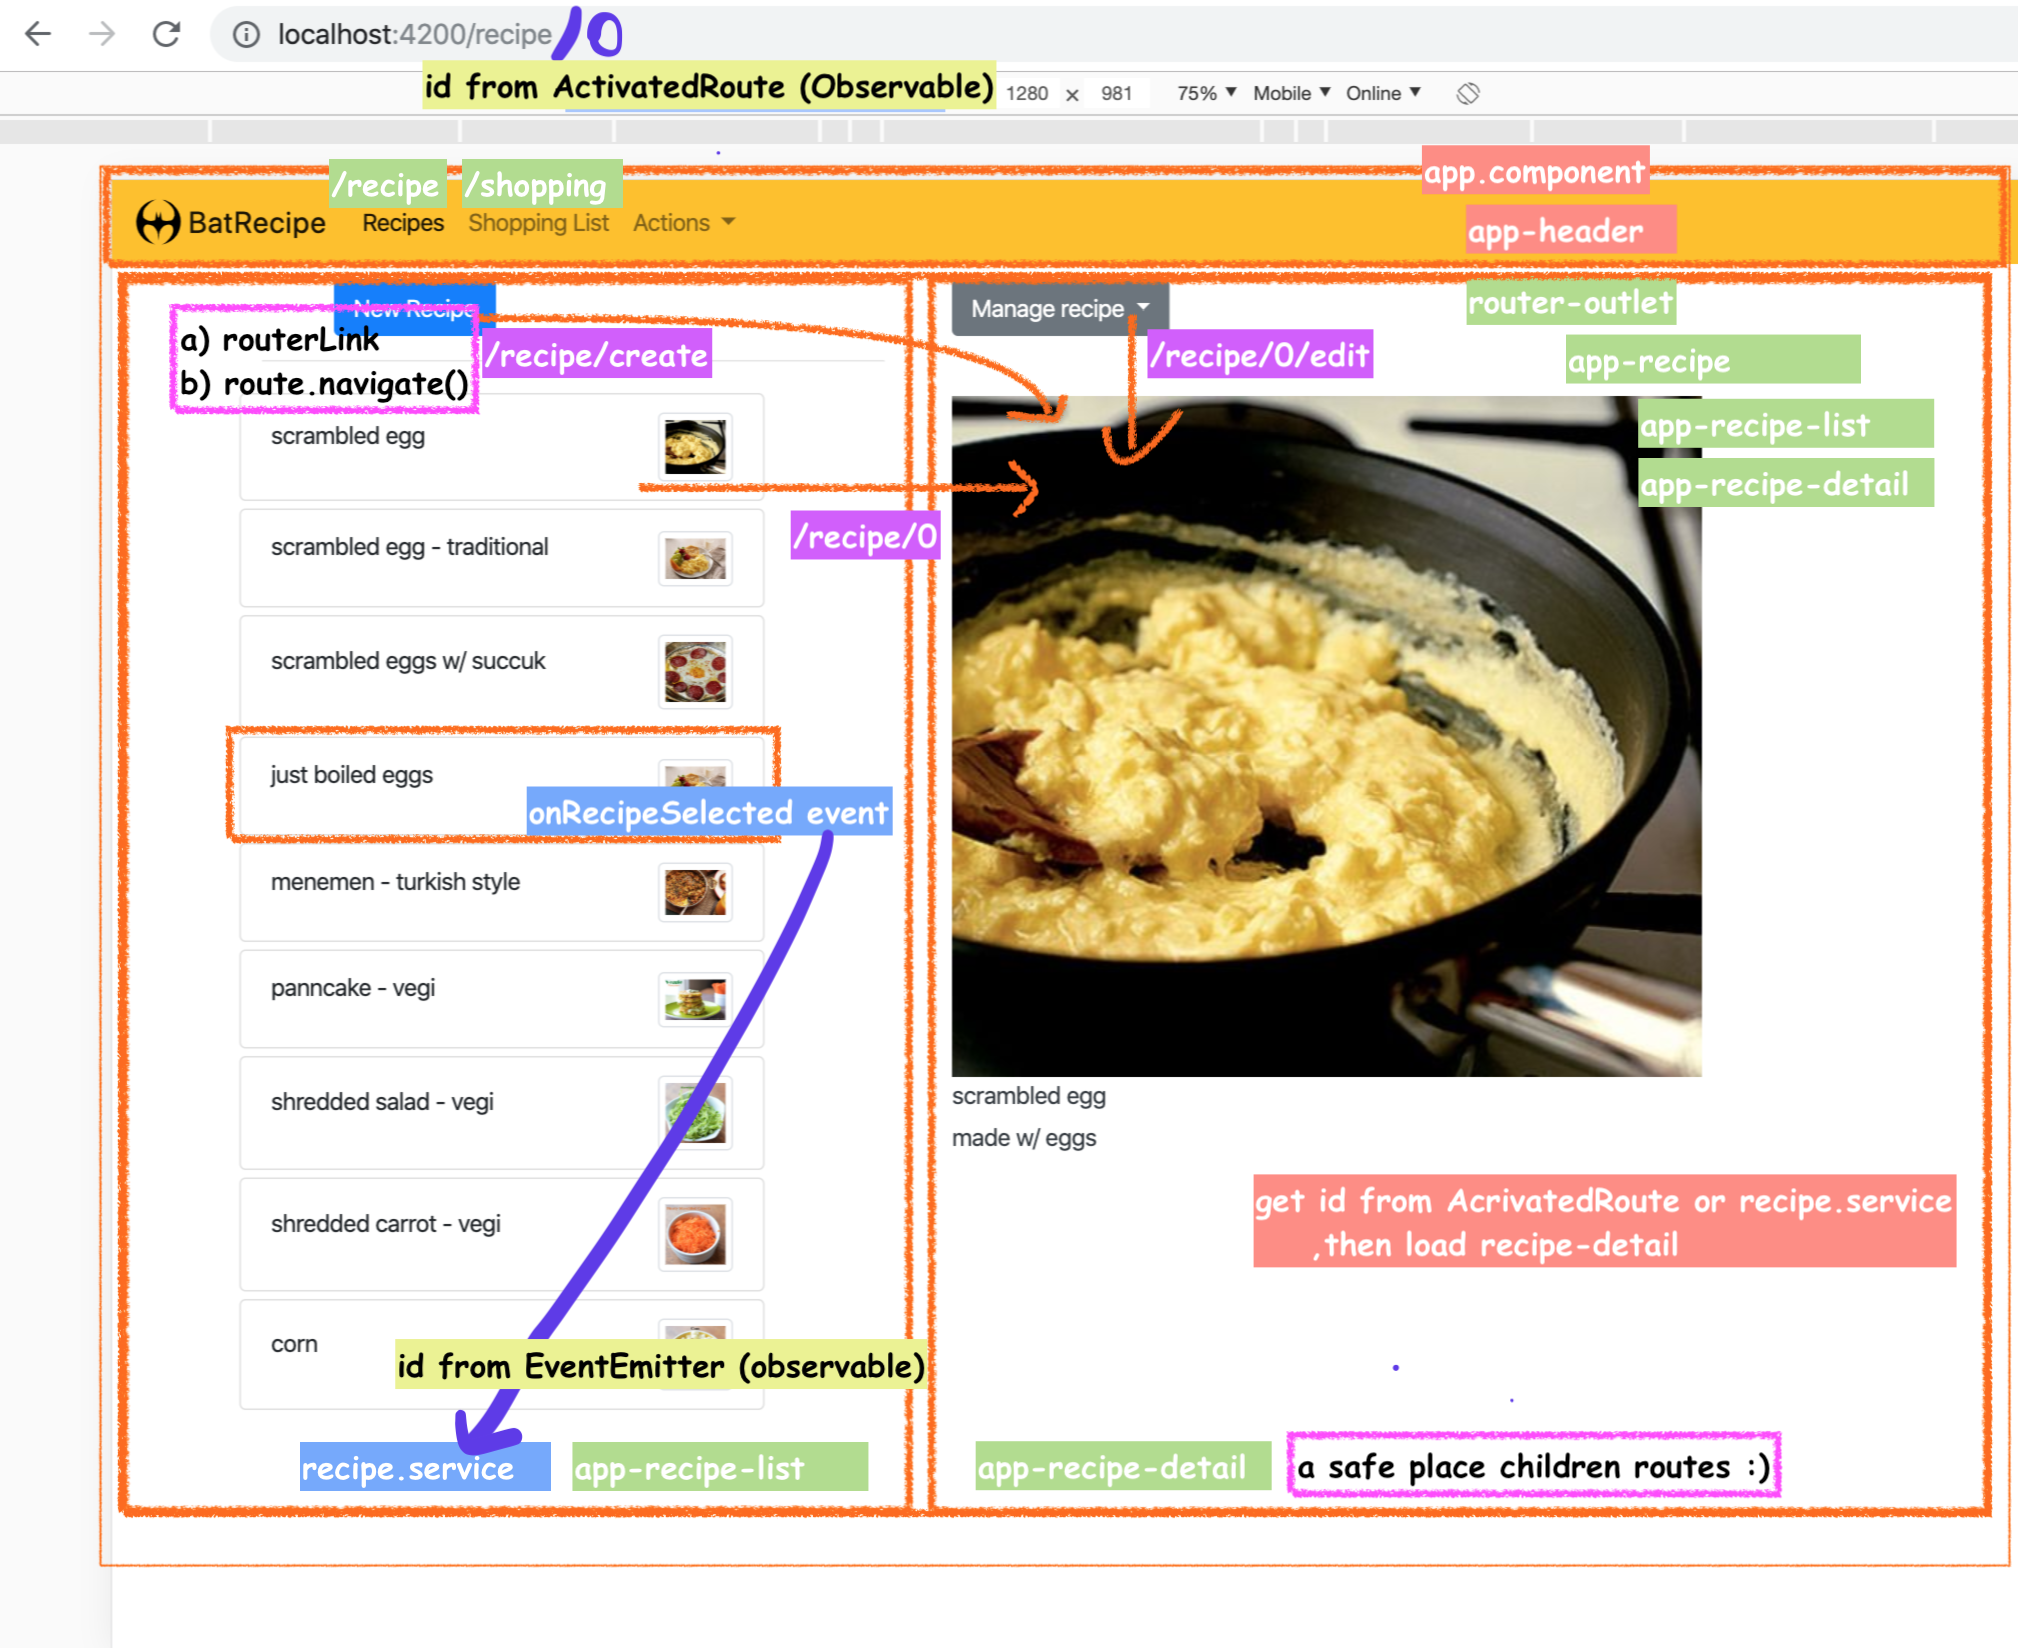
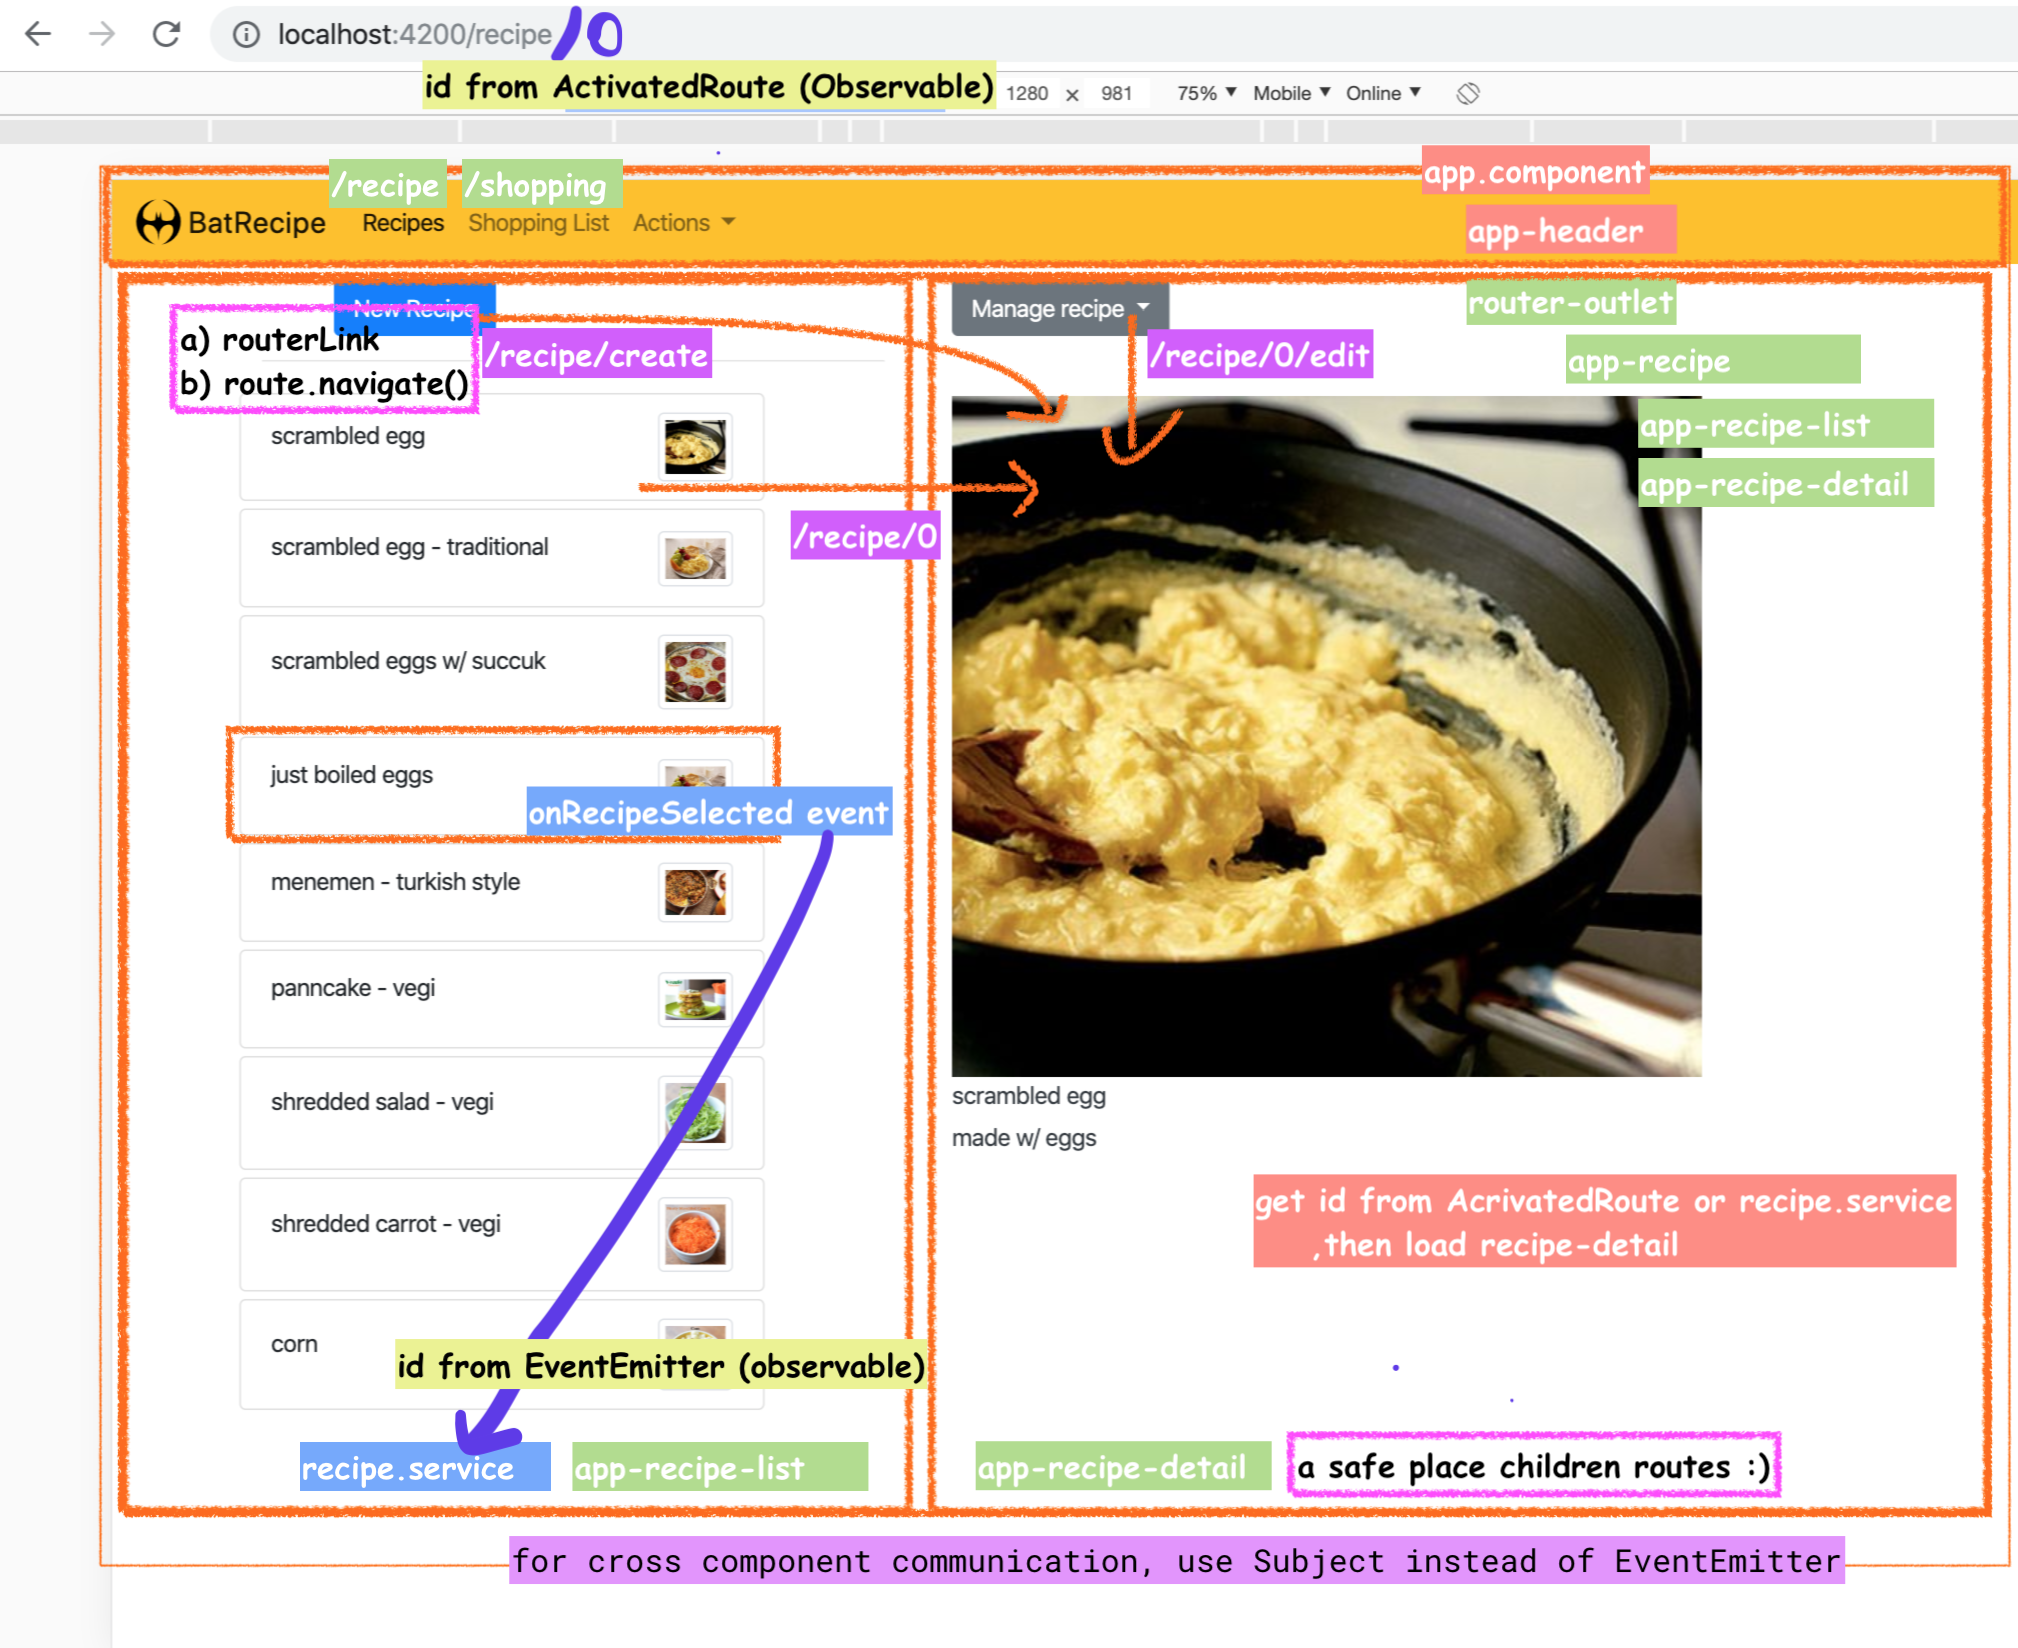
EventEmitter replaced w/ rxjs/Subject

Changed region(s): [[0.2498, 0.9284, 0.9366, 0.9593]]

diff --git a/recipe-app/src/app/recipe/recipe.service.ts b/recipe-app/src/app/recipe/recipe.service.ts
@@ -1,6 +1,7 @@
-import {EventEmitter, Injectable} from '@angular/core';
+import {Injectable} from '@angular/core';
 import {Recipe} from './recipe.model';
 import {Ingredient} from '../ingredient.model';
+import {Subject} from 'rxjs';
 
 /**
  * data
@@ -13,7 +14,8 @@ import {Ingredient} from '../ingredient.model';
 export class RecipeService {
 
   // we can subscribe this to get selected recipe. it is an observable !
-  recipeSelected = new EventEmitter<Recipe>();
+  // EventEmitter replaced w/ Subject - a better way
+  recipeSelected = new Subject<Recipe>();
 
   recipes: Recipe[] = [
     // tslint:disable-next-line:max-line-length

diff --git a/recipe-app/src/app/recipe/recipe-list/recipe-list.component.ts b/recipe-app/src/app/recipe/recipe-list/recipe-list.component.ts
@@ -26,8 +26,9 @@ export class RecipeListComponent implements OnInit {
       console.log(recipe);
       console.log(`recipe id: ${this.rs.getRecipeId(recipe)}`);
 
-      this.rs.recipeSelected.emit(recipe);
-      this.router.navigate([`/recipe/${this.rs.getRecipeId(recipe)}`]);
+      this.rs.recipeSelected.next(recipe);
+       // programmatic approach instead of routerLink in html
+       // this.router.navigate([`/recipe/${this.rs.getRecipeId(recipe)}`]);
   }
 
 }
